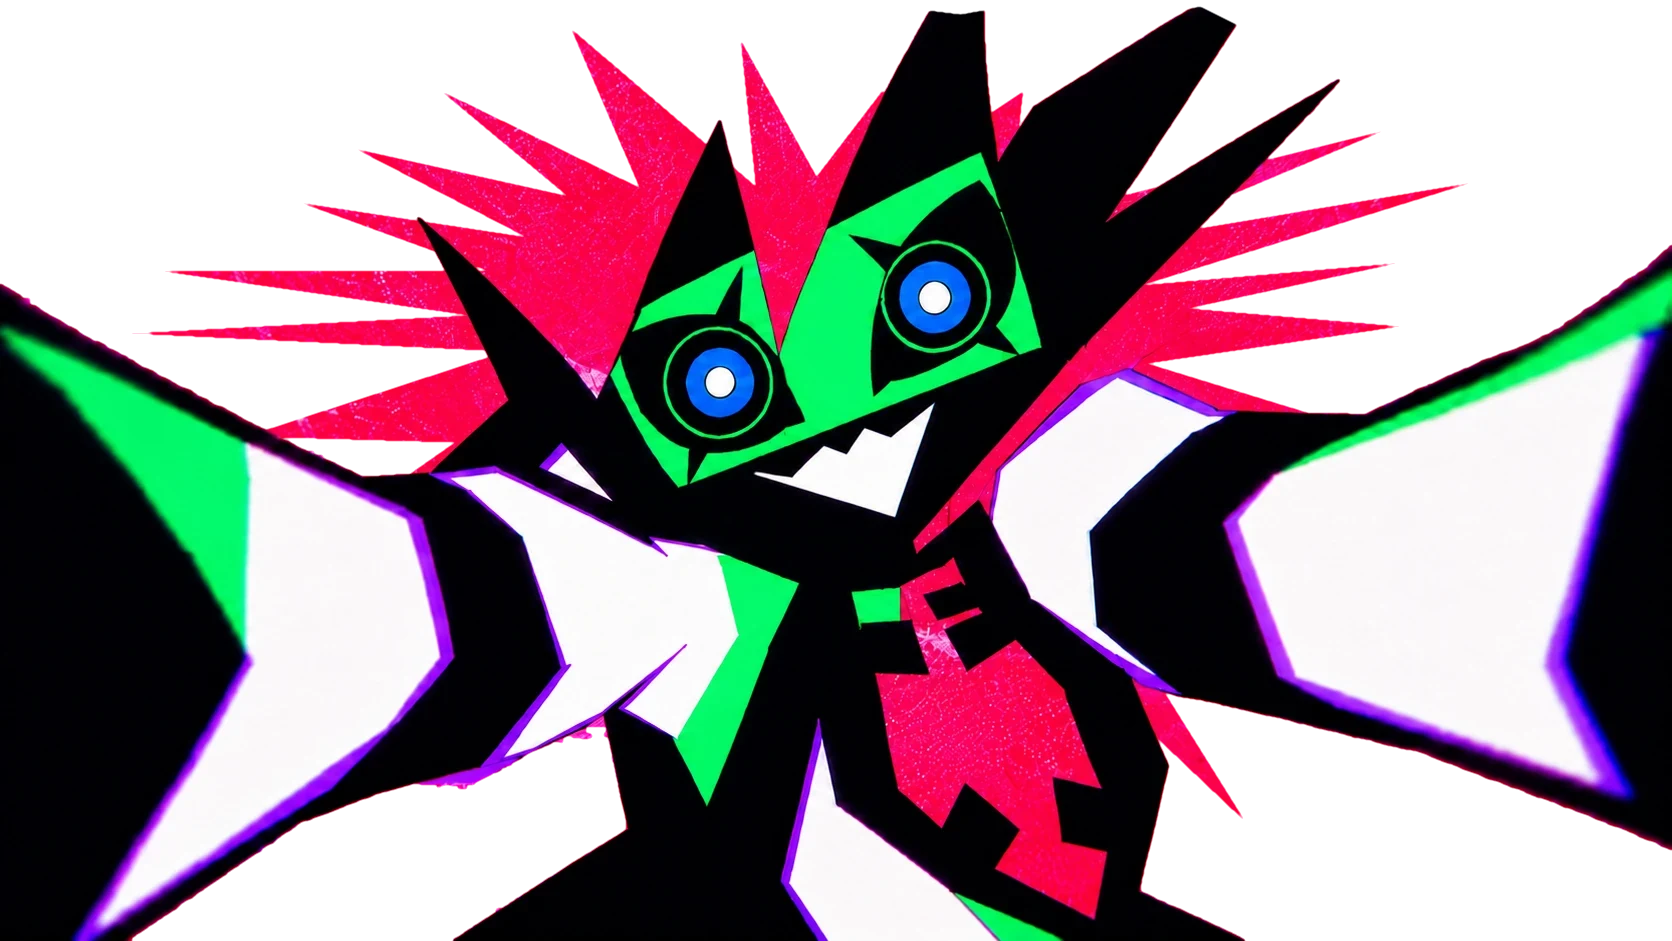
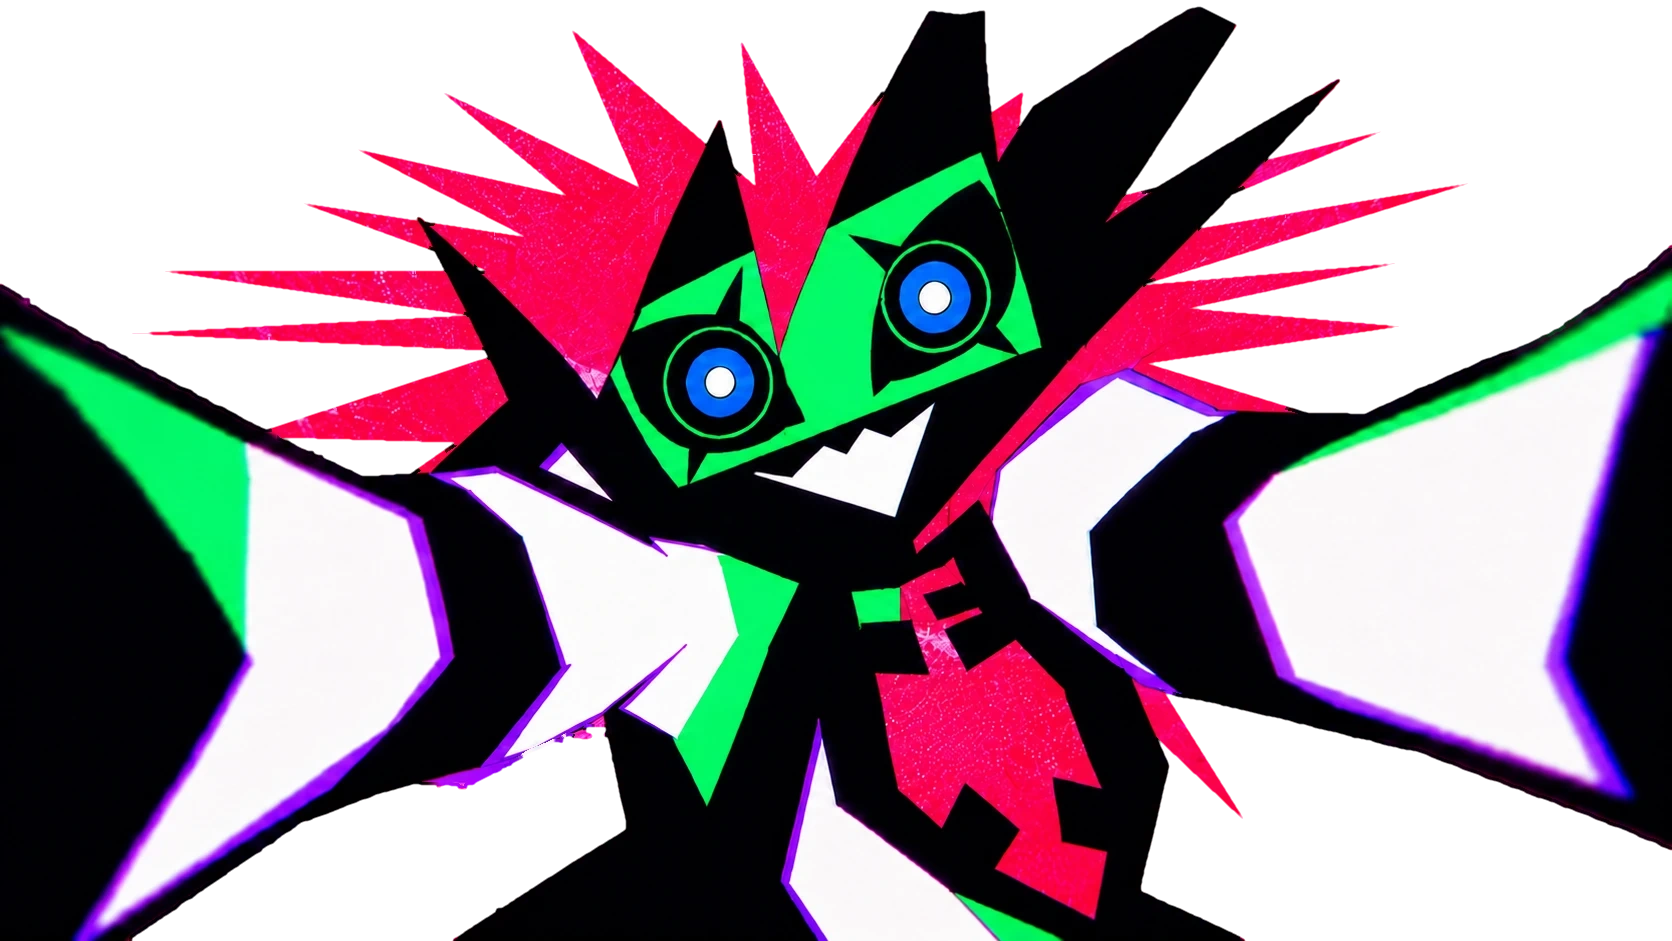
Her intro, smoother and cleaner
- Her moves follow the clock at the screen's own rate during the intro (arms reaching in, the
  camera creeping in, her breathing, the drop, the dive), so they don't stutter on 60 Hz screens.
  Her drawings still change on whole frames, like cels.
- Her six drawings are decoded when she starts, and her flat copies made ahead: no hitch on "hi"
  or on the wave.
- No more thin red rim where she was cut out of the red background: each edge pixel takes the
  colour just inside her (her mane and belly keep their red). Saved at a higher quality.

diff --git a/src/renderer/js/fx.js b/src/renderer/js/fx.js
@@ -241,6 +241,7 @@ export class FxLayer {
     this.cutins = cutins;
     this.grab = intro?.grab || null; // her close-up for her intro (GRAB_FRAMES), at rest
     this.grabFrames = intro || {};
+    if (this.grab) this.prepareGrab();
     this.items = [];
     this.running = false;
     this.last = 0;
@@ -511,47 +512,51 @@ export class FxLayer {
   // Her first appearance: she grabs your screen. Its edges crackle red; her left hand slams onto
   // its edge, then her right; her arms reach in along them, faster and faster, as she hauls herself
   // up, and her face hits the glass: a white flash of her, an ink one, her colours pulled apart,
-  // the screen shaking. She looks around, says "hi" (a tag pops by her face, her name typed under
-  // it), blinks, glances at where she's going, and lets go: her arms come apart into shards from
-  // her hands in, her head crouches and dives down to `to` (her face where she'll stand:
-  // { x, y, size }), and closes into a slit there. Never a straight edge of the picture on screen.
-  // Cues to onCue: 'open', 'hand' (twice), 'grab', 'hi', 'slip'. Resolves as it lands, for her
-  // body to unfold.
+  // the screen shaking. She looks around, blinks, says "hi" with her mouth (a tag pops by her face,
+  // her name typed under it), lets go of the right edge to wave, grabs it again, glances at where
+  // she's going, and lets go: her arms come apart into shards from her hands in, her head crouches
+  // and dives down to `to` (her face where she'll stand: { x, y, size }), and closes into a slit
+  // there. Never a straight edge of the picture on screen. Her moves follow the clock at the
+  // screen's rate (smooth), her drawings change on whole frames, like cels.
+  // Cues to onCue: 'open', 'hand' (three times), 'grab', 'hi', 'wave', 'slip'. Resolves as it
+  // lands, for her body to unfold.
   // `still` (reduced motion): it comes and goes where it is, in four steps each way.
   intro({ to, label = 'hi', caption = '', still = false, onCue = () => {} }) {
     if (!this.grab || !this.size) return Promise.resolve();
-    if (!this.grabCopies) {
-      // her flat silhouettes for the impact frames, and her red, green and blue apart
-      const copy = (fill, mode) => {
-        const c = document.createElement('canvas');
-        c.width = GRAB.w;
-        c.height = GRAB.h;
-        const g = c.getContext('2d');
-        g.drawImage(this.grab, 0, 0);
-        g.globalCompositeOperation = mode;
-        g.fillStyle = fill;
-        g.fillRect(0, 0, c.width, c.height);
-        if (mode === 'multiply') {
-          g.globalCompositeOperation = 'destination-in'; // multiply fills her cut-out background too
-          g.drawImage(this.grab, 0, 0);
-        }
-        return c;
-      };
-      this.grabCopies = {
-        paper: copy(COLORS.paper, 'source-in'),
-        ink: copy(COLORS.ink, 'source-in'),
-        violet: copy(COLORS.violet, 'source-in'),
-        channels: ['#ff0000', '#00ff00', '#0000ff'].map((c) => copy(c, 'multiply')),
-      };
-    }
     const { w, h } = this.size;
     const s = Math.max(w / GRAB.w, h / GRAB.h); // filling the screen, her hands on its edges
     const at = { x: (w - GRAB.w * s) / 2 + GRAB.face.x * s, y: (h - GRAB.h * s) / 2 + GRAB.face.y * s };
     // the dive swings out a little toward the middle of the screen on its way down to her
     const ctrl = { x: lerp(at.x, to.x, 0.25) - (to.x - at.x) * 0.2, y: lerp(at.y, to.y, 0.15) };
     return new Promise((land) => {
-      this.add({ type: 'intro', life: FRAME_MS * (INTRO_T.end + 1), s, at, to, ctrl, label, caption, still, onCue, land, cued: -1 });
+      this.add({ type: 'intro', smooth: true, life: FRAME_MS * (INTRO_T.end + 1), s, at, to, ctrl, label, caption, still, onCue, land, cued: -1 });
     });
+  }
+
+  // Her flat silhouettes for the impact frames, and her red, green and blue apart: made once,
+  // ahead, so nothing is left to work out while she's on screen.
+  prepareGrab() {
+    const copy = (fill, mode) => {
+      const c = document.createElement('canvas');
+      c.width = GRAB.w;
+      c.height = GRAB.h;
+      const g = c.getContext('2d');
+      g.drawImage(this.grab, 0, 0);
+      g.globalCompositeOperation = mode;
+      g.fillStyle = fill;
+      g.fillRect(0, 0, c.width, c.height);
+      if (mode === 'multiply') {
+        g.globalCompositeOperation = 'destination-in'; // multiply fills her cut-out background too
+        g.drawImage(this.grab, 0, 0);
+      }
+      return c;
+    };
+    this.grabCopies = {
+      paper: copy(COLORS.paper, 'source-in'),
+      ink: copy(COLORS.ink, 'source-in'),
+      violet: copy(COLORS.violet, 'source-in'),
+      channels: ['#ff0000', '#00ff00', '#0000ff'].map((c) => copy(c, 'multiply')),
+    };
   }
 
   // Her close-up, its face at (x, y), `k` times its size on screen (squashed sx, sy), turned `rot`:
@@ -676,12 +681,14 @@ export class FxLayer {
     ctx.restore();
   }
 
-  // The edges of the screen crackling red, in broken runs on their violet copy, a new drawing each time.
-  screenEdges(w, h) {
+  // The edges of the screen crackling red, in broken runs on their violet copy (new ones for each `seed`).
+  screenEdges(w, h, seed) {
     const { ctx } = this;
+    let i = 0;
+    const r = (a, b) => a + hash(i++, seed) * (b - a);
     const runs = (horizontal, fixed, len) => {
-      for (let p = rand(-60, 0); p < len; p += rand(70, 230)) {
-        const l = rand(50, 190), t = rand(4, 9);
+      for (let p = r(-60, 0); p < len; p += r(70, 230)) {
+        const l = r(50, 190), t = r(4, 9);
         const [x, y, rw, rh] = horizontal ? [p, fixed, l, t] : [fixed, p, t, l];
         ctx.fillStyle = COLORS.violet;
         ctx.fillRect(x + 3, y + 3, rw, rh);
@@ -708,8 +715,10 @@ export class FxLayer {
 
   // ---------- loop ----------
 
+  // Whole frames at 24 fps, or every screen refresh while something that moves smoothly is on
+  // (her intro: its camera moves follow the clock, its drawings still change on whole frames).
   frame(now) {
-    if (now - this.last < FRAME_MS - 2) {
+    if (now - this.last < FRAME_MS - 2 && !this.items.some((it) => it.smooth)) {
       requestAnimationFrame((t) => this.frame(t));
       return;
     }
@@ -1406,7 +1415,8 @@ export class FxLayer {
         const T = INTRO_T;
         const { s, at, to } = it;
         const { w: vw, h: vh } = this.size;
-        const frame = Math.floor((now - it.born) / FRAME_MS);
+        const t = (now - it.born) / FRAME_MS; // in frames, not rounded: the moves follow it smoothly
+        const frame = Math.floor(t); // the drawings change on whole frames
         // a point of the close-up (its pixels) on screen, its face at (x, y), k times its size
         const onScreen = (p, x = at.x, y = at.y, k = 1) => ({ x: x + (p.x - GRAB.face.x) * s * k, y: y + (p.y - GRAB.face.y) * s * k });
         const hands = GRAB.hands.map((p) => {
@@ -1482,7 +1492,7 @@ export class FxLayer {
 
         if (frame < T.hands) {
           // the edges of the screen crackle red: something's about to grab them
-          if (frame % 2 === 0 || frame === T.hands - 1) this.screenEdges(vw, vh);
+          if (frame % 2 === 0 || frame === T.hands - 1) this.screenEdges(vw, vh, frame);
           break;
         }
 
@@ -1499,7 +1509,7 @@ export class FxLayer {
 
         if (frame < T.grab) {
           // her arms reaching in along them, faster and faster, as she hauls herself up to the glass
-          const u = (frame - T.reach + 1) / (T.grab - T.reach);
+          const u = clamp((t - T.reach + 1) / (T.grab - T.reach), 0, 1);
           const r = lerp(0.16, 1.2, u * u);
           this.grabbed(it, at.x, at.y + 70 * s * (1 - u * u), lerp(1.04, 1.02, u), {
             look, open, clip: (c) => cutEdges(c, r, r, frame),
@@ -1539,15 +1549,16 @@ export class FxLayer {
           } else if (frame >= T.regrab && frame < T.regrab + 2) {
             [snap, shake] = [[6, 8], [3, -4]][frame - T.regrab]; // and slamming back onto it
           }
-          if (frame % 5 === 0) {
+          if (frame % 5 === 0 && it.drifted !== frame) {
+            it.drifted = frame; // once per frame, however often it's drawn
             const a = rand(-Math.PI * 0.95, -Math.PI * 0.05);
             const r = Math.min(vw, vh) * rand(0.36, 0.5);
             this.drift(at.x + Math.cos(a) * r * 1.3, at.y + Math.sin(a) * r, a);
           }
-          const creep = 0.03 * clamp(since / (T.slip - T.hold), 0, 1);
+          const creep = 0.03 * clamp((t - T.hold) / (T.slip - T.hold), 0, 1);
           const bob = h0 >= 0 && h0 < 8 ? [0.024, 0.024, -0.017, -0.017, 0.009, 0.009, 0, 0][h0] : 0;
           const pop = h0 === 0 || h0 === 1 ? [0.025, 0.012][h0] : 0;
-          const k = 1.025 + pop + creep + 0.006 * Math.sin(n / 3.5);
+          const k = 1.025 + pop + creep + 0.006 * Math.sin(t / 7);
           const glitch = frame % 24 === 19 ? 6 : 0;
           this.grabbed(it, at.x + noise(1) * 1.5 + shake, at.y + noise(2) * 1.5, k, { rot: noise(3) * 0.003 + bob, look, open, cel, split: snap || glitch });
           if (h0 >= 0) hi([0.35, 1.22, 0.94][h0] ?? 1);
@@ -1559,15 +1570,18 @@ export class FxLayer {
           // she lets go: her arms come apart into shards from her hands in, the screen's edges
           // free again, and she sags a little; the tag squashed away
           const g = frame - T.slip;
-          const u = (g + 1) / (T.antic - T.slip);
+          const u = clamp((t - T.slip + 1) / (T.antic - T.slip), 0, 1);
           const half = lerp(GRAB.w * 0.5 + 60, 330, 1 - (1 - u) * (1 - u));
-          const y = at.y + [0, 6, 14, 26, 40, 56][g] * s;
+          const y = at.y + 56 * s * u * u;
           this.grabbed(it, at.x, y, kHold, { look, open, clip: (c) => cutBand(c, half, frame) });
-          // the shards where her arms break off
-          for (const side of [-1, 1]) {
-            for (let j = 0; j < 2; j++) {
-              const q = onScreen({ x: GRAB.face.x + side * half, y: rand(250, 800) }, at.x, y, kHold);
-              this.burst(q.x, q.y, { count: 4, power: 0.55, spread: 40 });
+          // the shards where her arms break off, once per frame
+          if (it.shattered !== frame) {
+            it.shattered = frame;
+            for (const side of [-1, 1]) {
+              for (let j = 0; j < 2; j++) {
+                const q = onScreen({ x: GRAB.face.x + side * half, y: rand(250, 800) }, at.x, y, kHold);
+                this.burst(q.x, q.y, { count: 4, power: 0.55, spread: 40 });
+              }
             }
           }
           if (g === 0) hi(1, 0.45);
@@ -1585,10 +1599,10 @@ export class FxLayer {
         }
 
         if (frame < T.land) {
-          // the dive: shrinking fast, then falling faster and faster into her (on twos), smeared
-          // along the way, her last drawings left behind her in violet, a zigzag where she's been
-          const steps = (T.land - T.shrink) / 2;
-          const u = (Math.floor((frame - T.shrink) / 2) + 1) / steps;
+          // the dive: shrinking fast, then falling faster and faster into her, smeared along the
+          // way, where she was a moment ago left behind her in violet, a zigzag where she's been
+          const u = clamp((t - T.shrink + 1) / (T.land - T.shrink), 0, 1);
+          const lag = 0.12; // how far back her violet afterimages are
           const k0 = kHold * 0.9, k1 = (to.size * 1.5) / (GRAB.face.size * s);
           const place = (v) => {
             const e = v * v;
@@ -1602,7 +1616,7 @@ export class FxLayer {
           const trail = [];
           for (let j = 0; j <= 10; j++) {
             const q = place(Math.max(0, u - 0.45 + (j / 10) * 0.45));
-            trail.push([q.x + (j % 2 ? 1 : -1) * rand(3, 9), q.y]);
+            trail.push([q.x + (j % 2 ? 1 : -1) * (3 + hash(j, frame) * 6), q.y]);
           }
           ctx.save();
           ctx.lineJoin = 'miter';
@@ -1612,7 +1626,7 @@ export class FxLayer {
           ctx.restore();
           const head = (c) => cutHead(c, R, frame);
           for (const [back, alpha] of [[2, 0.14], [1, 0.3]]) {
-            const v = u - back / steps;
+            const v = u - back * lag;
             if (v <= 0) continue;
             const q = place(v);
             ctx.save();
@@ -1620,7 +1634,7 @@ export class FxLayer {
             this.grabbed(it, q.x, q.y, q.k, { flat: 'violet', clip: head });
             ctx.restore();
           }
-          const q = place(u), prev = place(Math.max(0, u - 1 / steps));
+          const q = place(u), prev = place(Math.max(0, u - lag * 0.5));
           const ang = Math.atan2(q.y - prev.y, q.x - prev.x);
           const size = R * 2 * s * q.k;
           const st = clamp(1 + (Math.hypot(q.x - prev.x, q.y - prev.y) / size) * 0.3, 1, 2);

diff --git a/src/renderer/js/app.js b/src/renderer/js/app.js
@@ -30,6 +30,8 @@ async function boot() {
     loadImage('../../assets/capri/capri-full.png'),
     // her intro: her close-up grabbing the screen, and its drawings with her mouth and arm moving
     Promise.all(GRAB_FRAMES.map((name) => loadImage(`../../assets/capri/intro-${name}.webp`).catch(() => null)))
+      // decoded now, not the first time each one shows up (a hitch right on "hi", on the wave)
+      .then((cels) => Promise.all(cels.map((cel) => cel && createImageBitmap(cel))))
       .then((cels) => (cels[0] ? Object.fromEntries(GRAB_FRAMES.map((name, i) => [name, cels[i]])) : null)),
     ...CUTINS.map((name) => loadImage(`../../assets/capri/cutin-${name}.png`)),
     document.fonts.load('600 16px "Chakra Petch"'),

diff --git a/tools/build-intro.py b/tools/build-intro.py
@@ -73,6 +73,34 @@ def pockets(fig):
     return outside.point(lambda v: 255 if v == 0 else 0)
 
 
+def unfringe(out):
+    """Where she was cut out of the red, her edges kept a thin rim of it: a red line along the black,
+    pink and magenta specks along the violet. Each pixel of that rim takes the colour of the nearest
+    pixel well inside her, unless that one is red too (the mane, her belly: their red edge is right)."""
+    w, h = out.size
+    alpha = out.getchannel('A')
+    rim = alpha.filter(ImageFilter.MinFilter(5)).load()     # under 255: within 2 px of the cut
+    inner = alpha.filter(ImageFilter.MinFilter(9)).load()   # 255: at least 4 px inside her
+    ap = alpha.load()
+    px = out.load()
+    near = sorted(((dx, dy) for dx in range(-6, 7) for dy in range(-6, 7) if dx or dy), key=lambda d: d[0] ** 2 + d[1] ** 2)
+    fixes = []
+    for y in range(h):
+        for x in range(w):
+            if not ap[x, y] or rim[x, y] == 255:
+                continue
+            for dx, dy in near:
+                u, v = x + dx, y + dy
+                if 0 <= u < w and 0 <= v < h and inner[u, v] == 255:
+                    r, g, b, _ = px[u, v]
+                    if not (r > 150 and r - max(g, b) > 60):
+                        fixes.append((x, y, r, g, b))
+                    break
+    for x, y, r, g, b in fixes:
+        px[x, y] = (r, g, b, ap[x, y])
+    return out
+
+
 def framed(path):
     """The picture at SIZE: the generated variants come out a pixel narrower, padded back out."""
     im = Image.open(path).convert('RGB')
@@ -130,7 +158,7 @@ def cut(im):
     alpha = alpha.point(lambda v: 0 if v < 60 else (255 if v > 190 else int((v - 60) * 255 / 130)))
     out = im.convert('RGBA')
     out.putalpha(alpha)
-    return out
+    return unfringe(out)
 
 
 def main():
@@ -139,7 +167,7 @@ def main():
         sys.exit(__doc__)
     for name, path in pairs:
         target = OUT / f'intro-{name}.webp'
-        cut(framed(path)).save(target, 'WEBP', quality=88, method=6)
+        cut(framed(path)).save(target, 'WEBP', quality=95, method=6)
         print('written', target)
 
 
